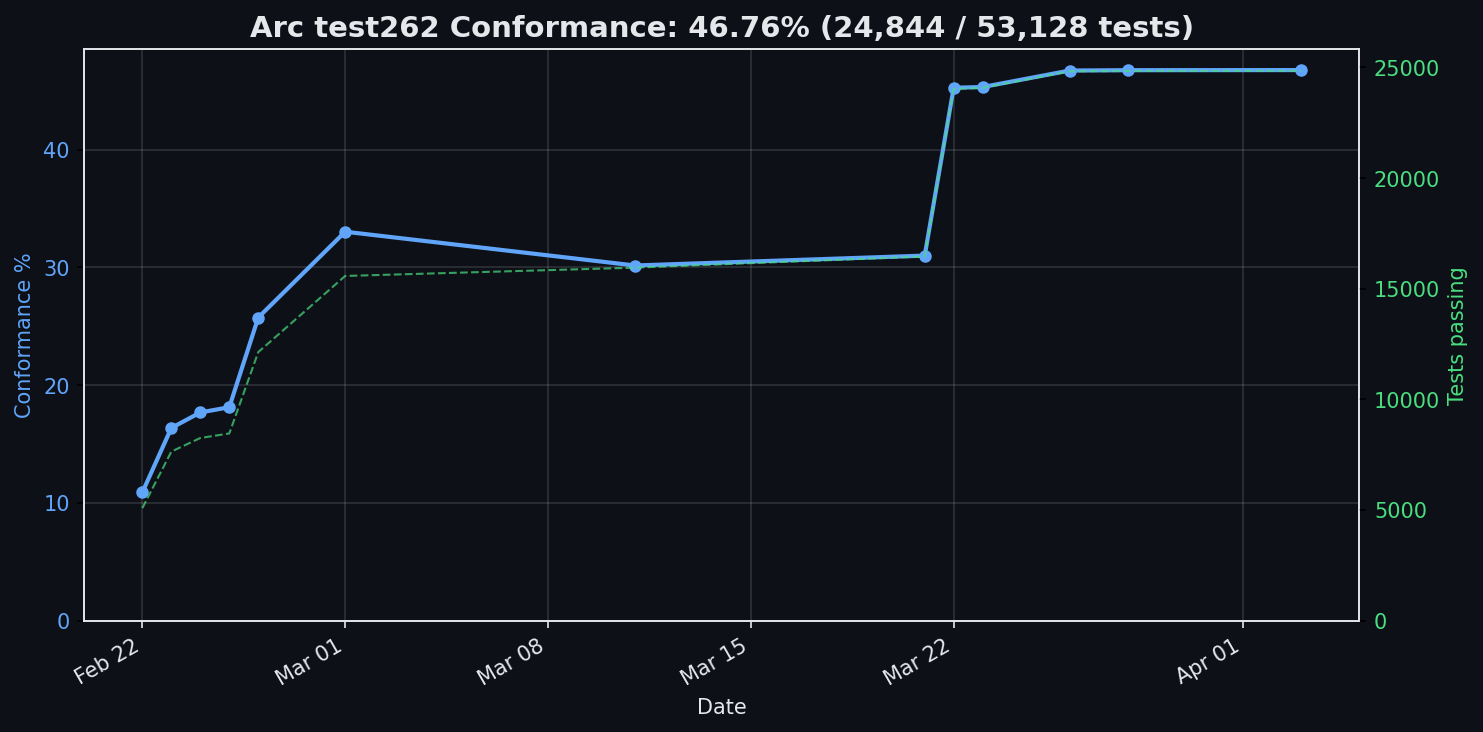
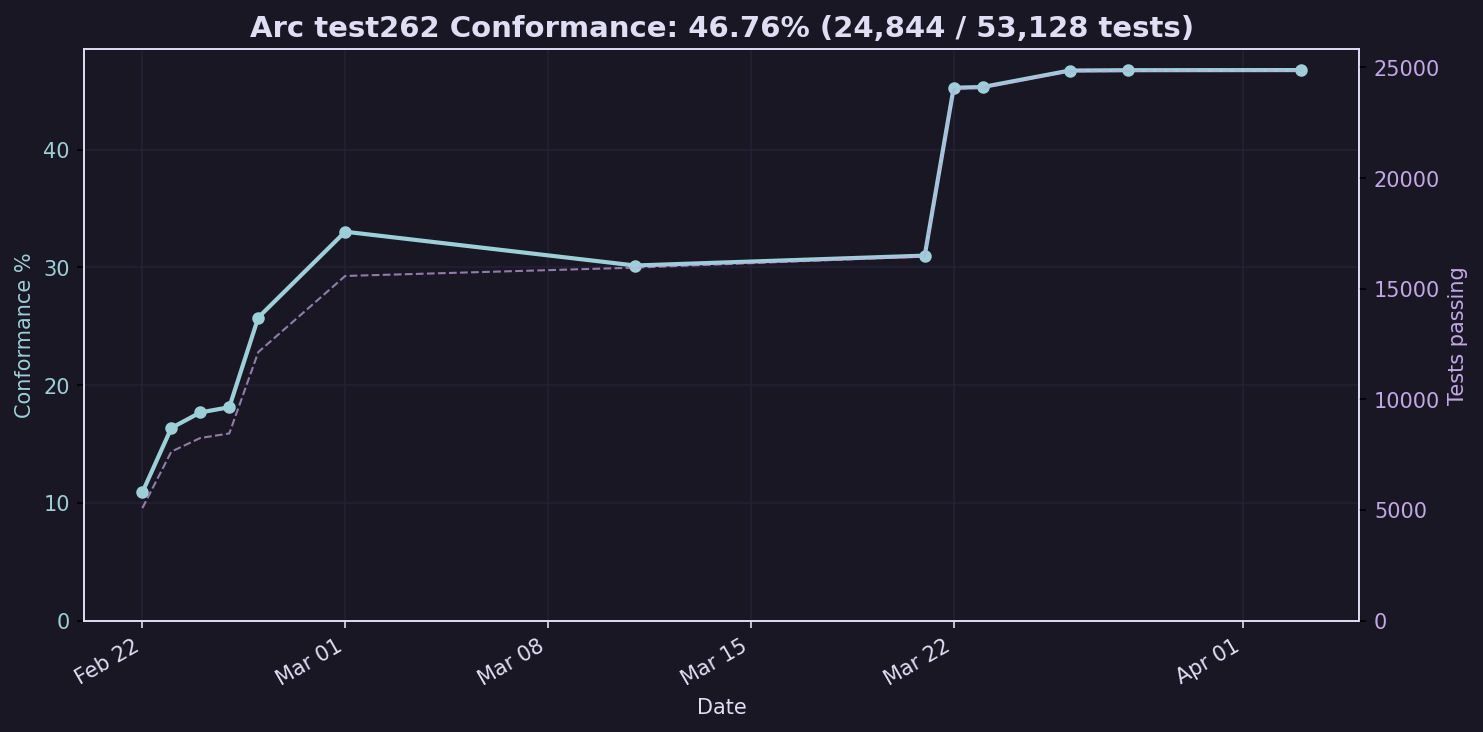
prettier charts

diff --git a/.github/scripts/generate_chart.py b/.github/scripts/generate_chart.py
@@ -79,17 +79,21 @@ def generate_chart(history):
 
     def render(out_file, dark):
         if dark:
-            fg = "#e5e7eb"
-            bg = "#0d1117"
-            color_pct = "#60a5fa"
-            color_pass = "#4ade80"
-            grid_alpha = 0.15
+            # Rose Pine
+            fg = "#e0def4"
+            bg = "#191724"
+            color_pct = "#9ccfd8"  # foam
+            color_pass = "#c4a7e7"  # iris
+            grid_color = "#26233a"  # overlay
+            grid_alpha = 0.8
         else:
-            fg = "black"
-            bg = "white"
-            color_pct = "#2563eb"
-            color_pass = "#16a34a"
-            grid_alpha = 0.3
+            # Rose Pine Dawn
+            fg = "#575279"
+            bg = "#faf4ed"
+            color_pct = "#56949f"  # foam
+            color_pass = "#907aa9"  # iris
+            grid_color = "#f2e9e1"  # overlay
+            grid_alpha = 0.8
 
         fig, ax1 = plt.subplots(figsize=(10, 5))
         fig.patch.set_facecolor(bg)
@@ -131,7 +135,7 @@ def generate_chart(history):
             color=fg,
         )
 
-        ax1.grid(True, alpha=grid_alpha, color=fg)
+        ax1.grid(True, alpha=grid_alpha, color=grid_color)
         fig.tight_layout()
         fig.savefig(out_file, dpi=150, bbox_inches="tight", facecolor=bg)
         plt.close(fig)
